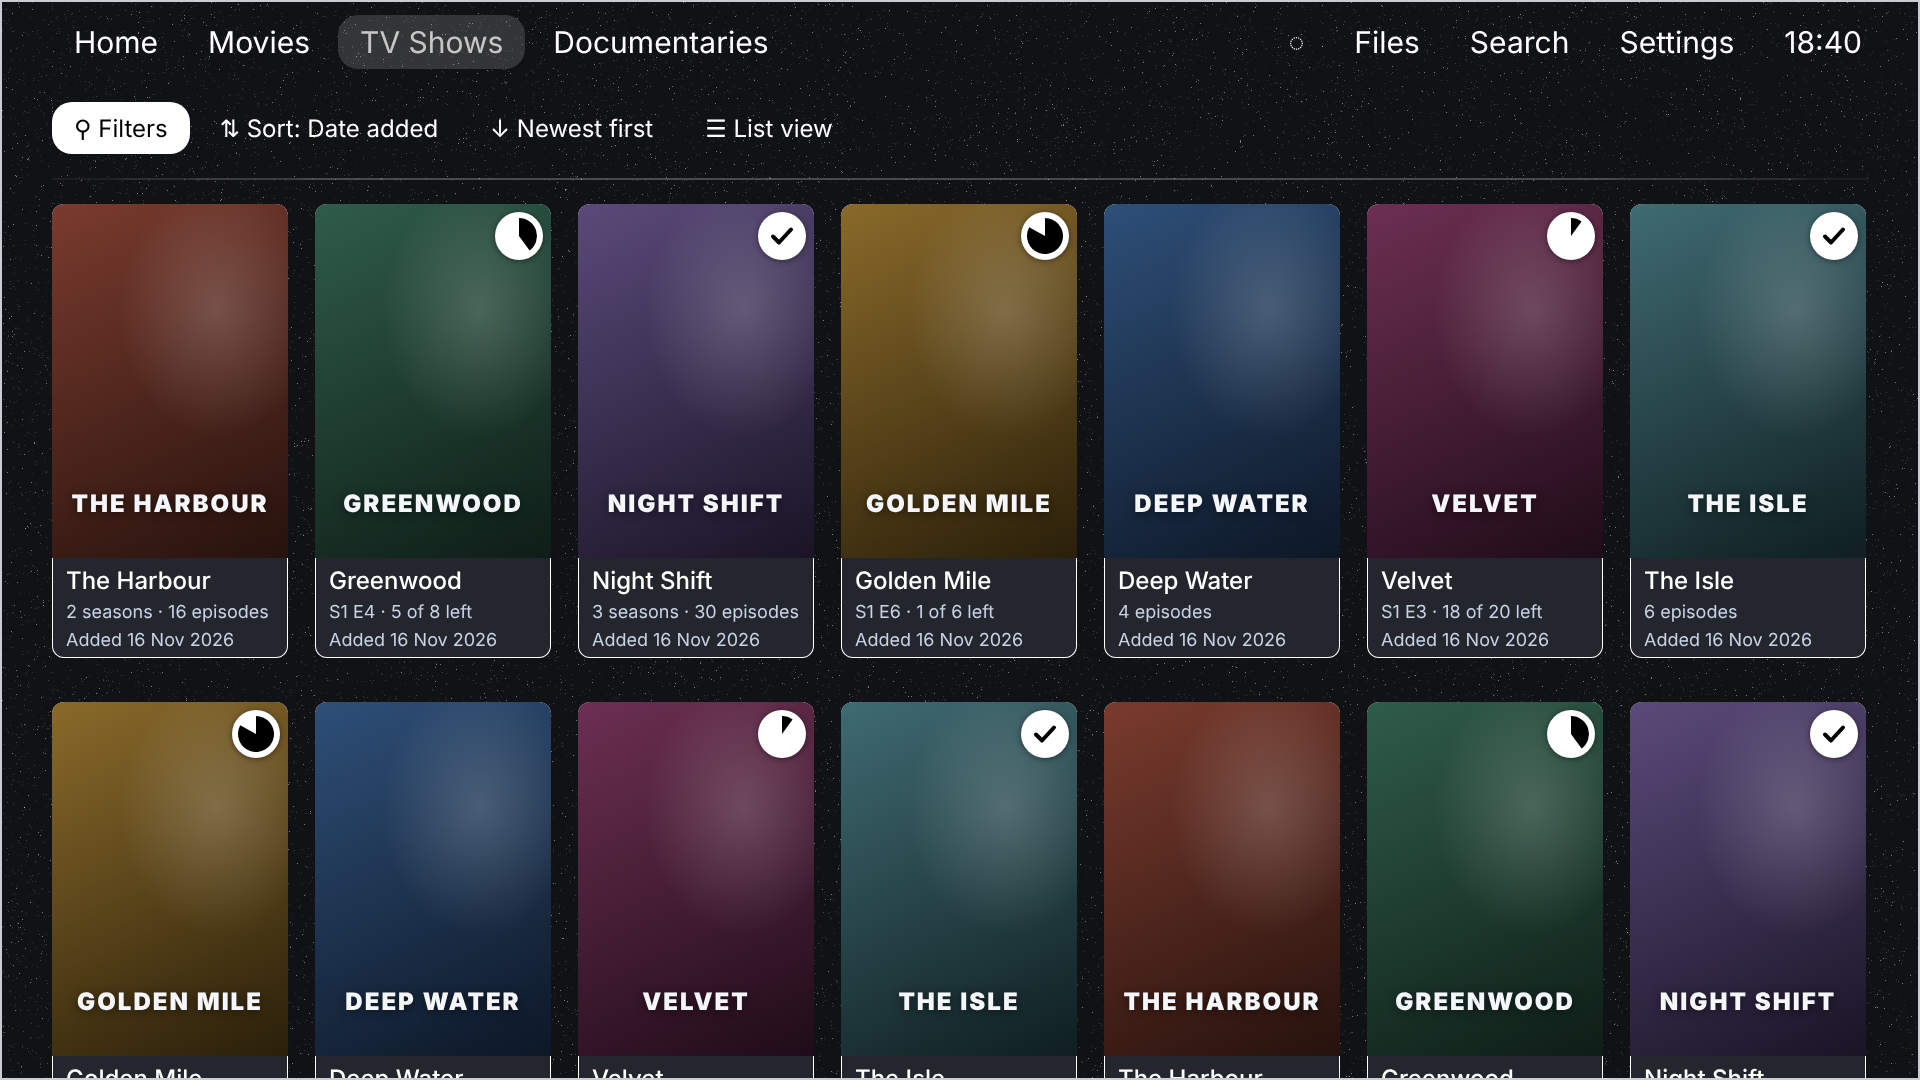
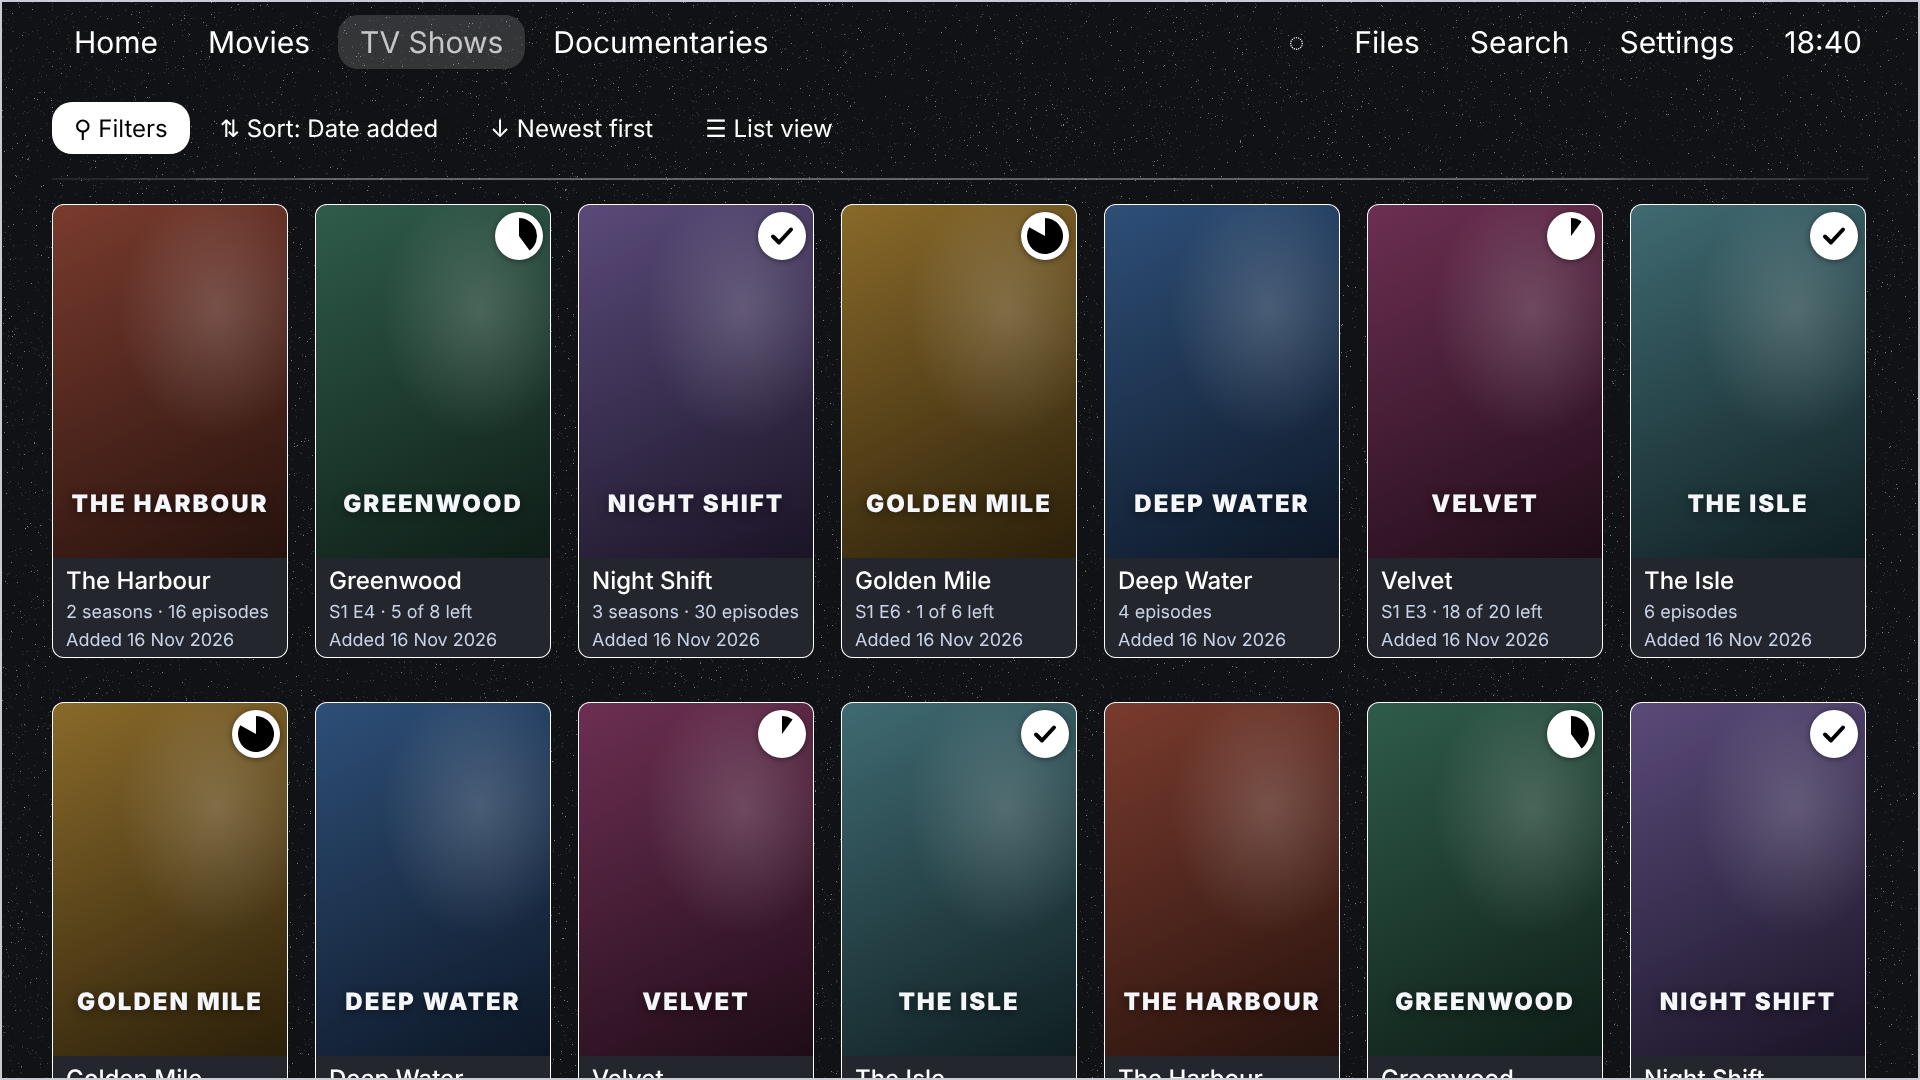
Library toolbar: 52 px boxes, 24 px gaps, line at 35% thinning at the ends (owner)
Claude-Session: https://claude.ai/code/session_01FtDZqYQTGsHUL41wBkAMmc

diff --git a/docs/design/proposals/rows-captions/toolbar-tv.html b/docs/design/proposals/rows-captions/toolbar-tv.html
@@ -13,7 +13,8 @@ body{background:#111215;font-family:Roboto,Inter,Arial,sans-serif;width:1920px}
 .tb span{height:52px;padding:0 22px;border-radius:20px;display:flex;align-items:center;gap:10px;white-space:nowrap}
 .tb .f{background:#fff;color:#000}
 .tb .gap{flex:1;padding:0}
-.poster{position:absolute;width:236px;border-radius:12px;background:#23262C;box-shadow:inset 0 0 0 1px #fff}
+.poster{position:absolute;width:236px;border-radius:12px;background:#23262C}
+.pedge{position:absolute;inset:0;border-radius:12px;box-shadow:inset 0 0 0 1px #fff;pointer-events:none;z-index:2}
 .art{position:relative;height:354px;border-radius:12px 12px 0 0;overflow:hidden}
 .logo{position:absolute;left:8px;right:8px;bottom:40px;text-align:center;font-size:24px;color:#f4f6fa;font-weight:900;letter-spacing:2px;text-shadow:0 2px 10px rgba(0,0,0,.5)}
 .cap{height:100px;padding:9px 8px 0 14px}
@@ -38,17 +39,17 @@ function tick(){return `<path d="M15 24.5l6 6 12-13" fill="none" stroke="#000" s
 const P=[["The Harbour","2 seasons · 16 episodes",null,"#7a3b2e","#26120d"],["Greenwood","S1 E4 · 5 of 8 left",.4,"#2f5c4a","#0e1d17"],["Night Shift","3 seasons · 30 episodes",'w',"#5a4a7a","#1a1426"],["Golden Mile","S1 E6 · 1 of 6 left",.83,"#8a6a2a","#2a1f0a"],["Deep Water","4 episodes",null,"#2e4f78","#0d1726"],["Velvet","S1 E3 · 18 of 20 left",.1,"#6d2f52","#1f0c18"],["The Isle","6 episodes",'w',"#3f6b72","#0f1e21"]];
 let h=`<div class="bar"><span>Home</span><span>Movies</span><span class="open">TV Shows</span><span>Documentaries</span><span class="sp"></span><span style="font-size:26px">◌</span><span>Files</span><span>Search</span><span>Settings</span><span style="padding-right:0">18:40</span></div>
 <div class="tb"><span class="f">⚲ Filters</span><span>⇅ Sort: Date added</span><span>↓ Newest first</span><span>☰ List view</span></div>
-<svg style="position:absolute;left:0;top:0" width="1920" height="1080">${taper(52,1868,LINE_Y+1,2,.24,1)}</svg>`;
+<svg style="position:absolute;left:0;top:0" width="1920" height="1080">${taper(52,1868,LINE_Y+1,2,.35,1)}</svg>`;
 const gridTop=LINE_Y+2+24;
 for(let r=0;r<2;r++)for(let c=0;c<7;c++){const it=P[(c+r*3)%7],x=52+c*(236+27),y=gridTop+r*(454+44);
  const b=it[2]===null?'':`<div class="badge"><svg width="${D}" height="${D}" viewBox="0 0 ${D} ${D}">${it[2]==='w'?tick():pie(it[2])}</svg></div>`;
- h+=`<div class="poster" style="left:${x}px;top:${y}px"><div class="art" style="background:radial-gradient(ellipse 70% 60% at 70% 30%,rgba(255,255,255,.18),transparent 60%),linear-gradient(155deg,${it[3]},${it[4]})"><div class="logo">${it[0].toUpperCase()}</div>${b}</div><div class="cap"><div class="t1">${it[0]}</div><div class="t2">${it[1]}</div><div class="t3">Added 16 Nov 2026</div></div></div>`}
+ h+=`<div class="poster" style="left:${x}px;top:${y}px"><div class="art" style="background:radial-gradient(ellipse 70% 60% at 70% 30%,rgba(255,255,255,.18),transparent 60%),linear-gradient(155deg,${it[3]},${it[4]})"><div class="logo">${it[0].toUpperCase()}</div>${b}</div><div class="cap"><div class="t1">${it[0]}</div><div class="t2">${it[1]}</div><div class="t3">Added 16 Nov 2026</div></div><div class="pedge"></div></div>`}
 const s=document.getElementById('s');s.innerHTML=h+'<div class="border"></div>';
 // zoom: today's line vs the new one, magnified 4x, left end and middle
-const Z=4;let z=`<div class="zl" style="top:120px">1 · Today: white at 12%, solid (the left end, magnified 4×)</div><div class="zl" style="top:560px">2 · New: white at 24%, thinning towards each end like a pen stroke (magnified 4×)</div>
+const Z=4;let z=`<div class="zl" style="top:120px">1 · Today: white at 12%, solid (the left end, magnified 4×)</div><div class="zl" style="top:560px">2 · New: white at 35%, thinning towards each end like a pen stroke (magnified 4×)</div>
 <svg style="position:absolute;left:0;top:0" width="1920" height="1080">
 <rect x="${80}" y="${300}" width="${1760}" height="${2*Z}" fill="rgba(255,255,255,.12)"/>
-${(function(){const x0=20,len=1816;let s='';s+=`<g transform="translate(${80-x0*Z},${740-180*Z})">${taper(x0,x0+len,180,2,.24,Z)}</g>`;return s})()}
+${(function(){const x0=20,len=1816;let s='';s+=`<g transform="translate(${80-x0*Z},${740-180*Z})">${taper(x0,x0+len,180,2,.35,Z)}</g>`;return s})()}
 </svg><div class="border"></div>`;
 document.getElementById('z').innerHTML=z;
 function rng(seed){return()=>{seed|=0;seed=seed+0x6D2B79F5|0;let t=Math.imul(seed^seed>>>15,1|seed);t=t+Math.imul(t^t>>>7,61|t)^t;return((t^t>>>14)>>>0)/4294967296}}

diff --git a/docs/0.158/BRIEF_0158_B.md b/docs/0.158/BRIEF_0158_B.md
@@ -187,6 +187,10 @@ Users and tags, Guest (still being designed). Onboarding (later). The Trakt list
   menu and side panel keeps `#16181C` at 99% and gains a white outline at 70% (about 1.5 px at 1080p) and a dark
   shadow spreading outwards (black about 85%, about 48 px soft, 18 px down). One shared look, so all change together.
   Playback Settings over video: leave as it is until the player walk-through.
+- **Library toolbar sizes (owner, 19 Nov, judged on the TV; LIBRARY.md › Toolbar; `rows-captions/tv/08`):** buttons in
+  the one 52 px small-box shape (today the toolbar forces about 88 px: `PreviewToolbar` min height 44 dp and 12 / 6 dp
+  padding override `SupernovaStyle`); the line white at 35%, about 2 px, thinning to a hair at both margins; 24 px
+  from the focused box to the line and 24 px from the line to the posters.
 - **Library toolbar (owner, 19 Nov; LIBRARY.md):** remove **Customise page** from Movies and TV Shows (it only repeated
   Filters' Show and the toolbar's View, Sort and Order); it stays on your own pages.
 - **S1 (owner, 19 Nov):** Settings' tabs take **Files' tab look** (same size, a line under the tab row, white focus

diff --git a/docs/0.158/REVIEW_0158.md b/docs/0.158/REVIEW_0158.md
@@ -102,3 +102,5 @@ The owner will do the full walk-through when part B is finished; these are thing
 - Asked: panels at 99% are in 0.158.4 and later (built). The poster caption box is solid `#23262C` (100%).
 - **L5. Menus blend into the poster captions** (Filters over the grid). **Decided (owner, 19 Nov): white outline at 70%
   plus a dark shadow** (RULES §11).
+- **L3 / L4 decided (owner, 19 Nov, on the TV):** 52 px boxes, 24 px either side of the line, line white at 35%
+  thinning at the ends (LIBRARY.md).
